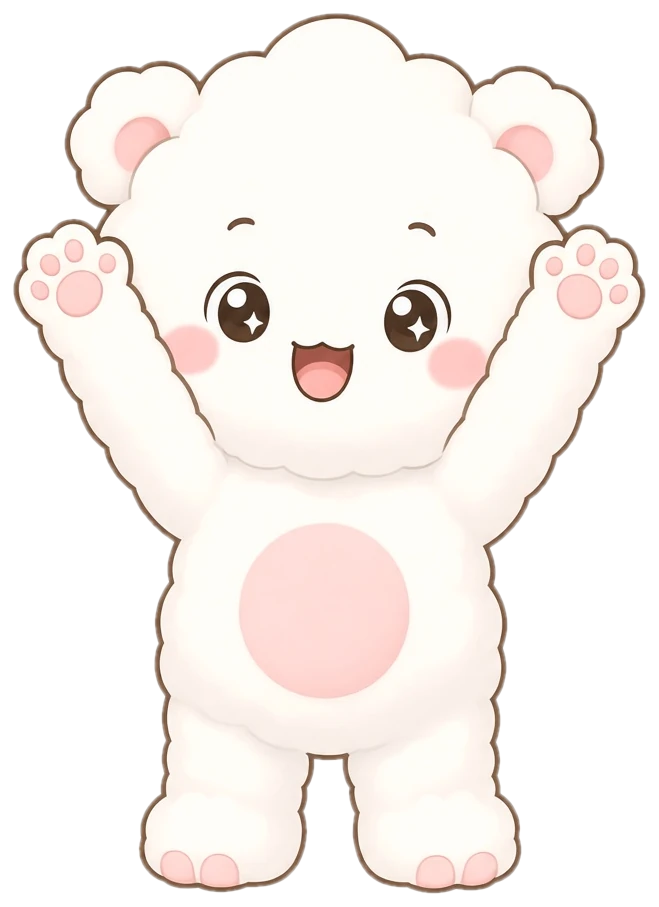
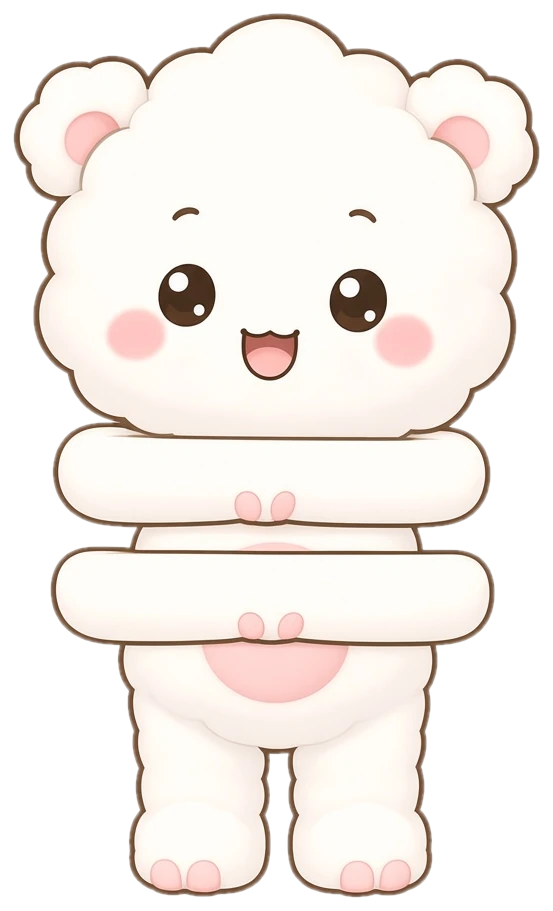
v4: replace pizza weak cuts for pose, stretch, and sticker
Overwrite the regenerated pose, stretch, and stn_02 art in the live slots. Keep pose_k and pose_r as pizza left them, with a note that those two are still approximate.

Changed region(s): [[0.0, 0.0, 0.9837, 0.9879], [0.5533, 0.0, 0.5841, 0.0309], [0.3996, 0.7409, 0.4304, 0.7718]]

diff --git a/v4/BODY_STRETCH_PACK_1106.md b/v4/BODY_STRETCH_PACK_1106.md
@@ -6,7 +6,7 @@
 
 `assets/pic/pose_*.webp` 20장이 `art.js`에 있다. `poseArtReady()`가 참이면 `body` 칸을 유지한다. 본편은 `assets/pic/stretch/stretch_*.webp` 쉼 카드(앉기/서기)다. 글자 포즈는 옆에만 두고, 모양을 만들라고 하지 않는다. 건너뛰기와 "아프면 그만"이 있다. 점프 몽글이로 대신하지 않는다.
 
-약한 컷(그대로 씀, 나중에 교체): pose_u, m, s, g, k, r, p, stretch_04, stretch_07, stretch_08.
+11/06 재생성으로 pose_u·m·s·g·p, stretch_04·07·08, stn_02를 덮어썼다. pose_k(가운뎃획 근사)·pose_r(직각 지그)는 피자가 잔여 약점이라고 해서 그 파일을 그대로 둔다.
 
 `MORE_MAX`는 5다. FUN_CUSTOM 초안의 1과 다르고, 대표님 11/04 지시대로 5를 유지한다.
 
